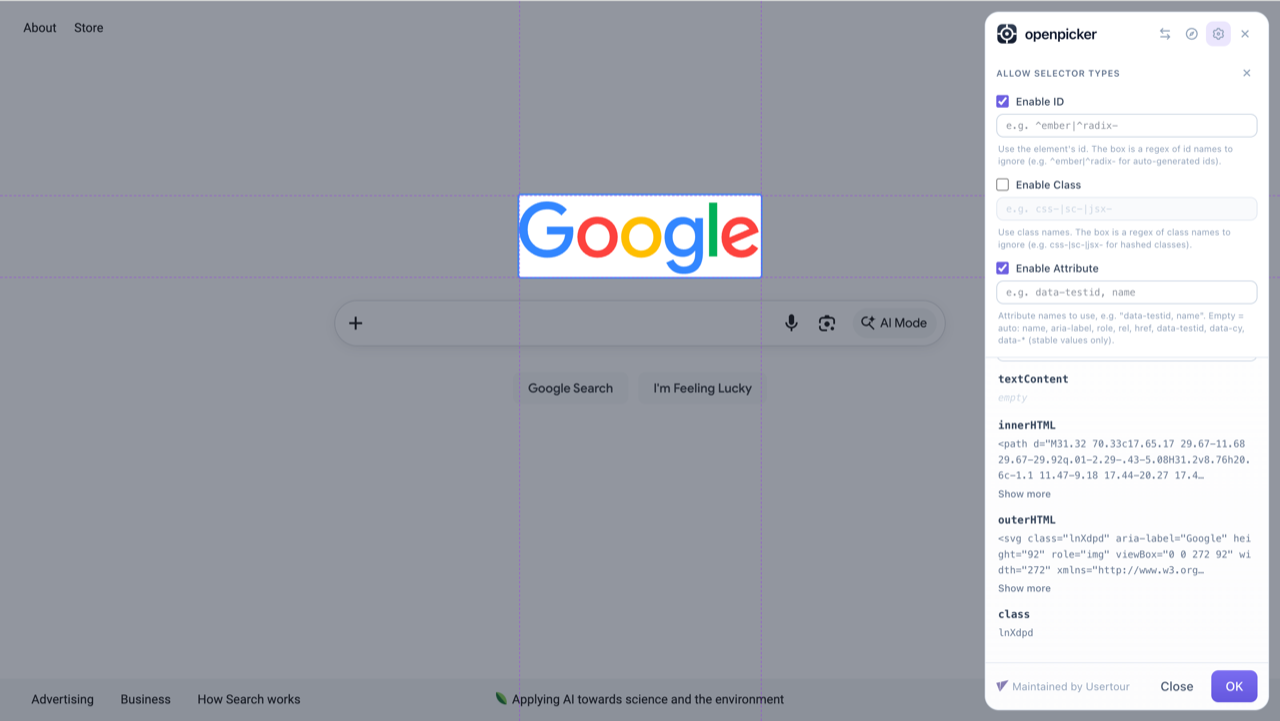
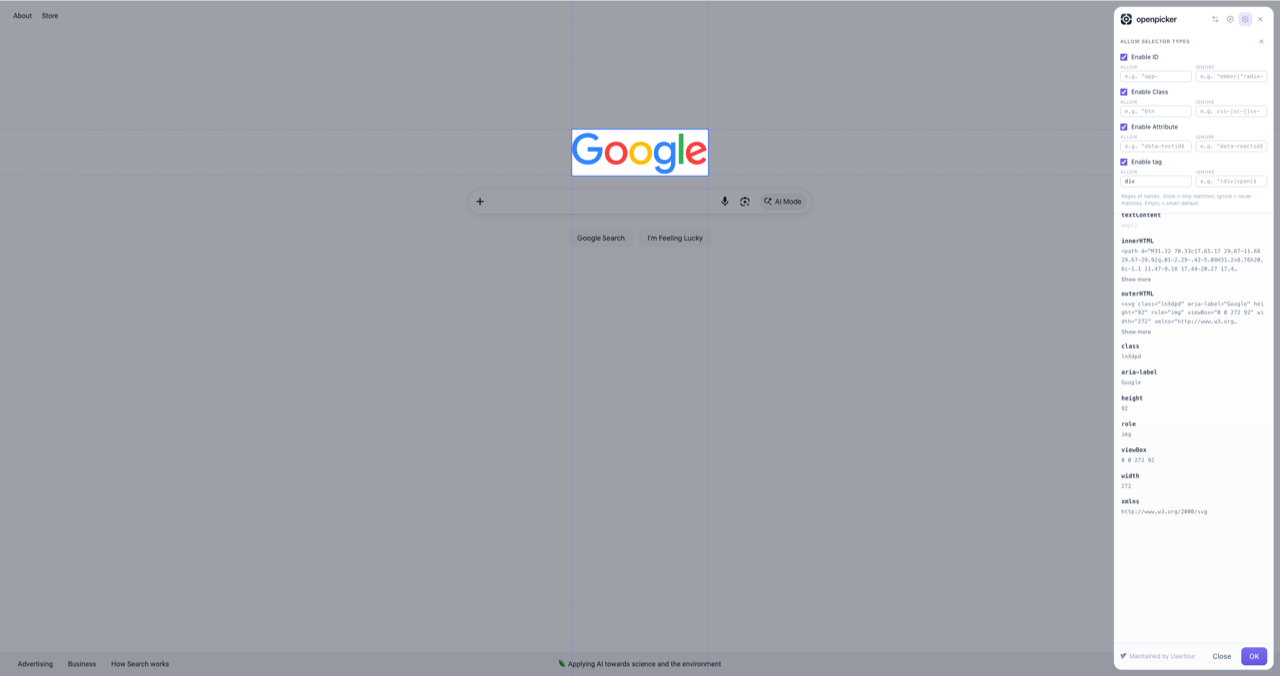
docs: refresh screenshots for the 0.3.0 UI
Replace picker / popup / options / selector-settings captures with the new
0.3.0 interface (renamed "Settings" popup action, four-dimension selector
rules with allow/ignore regex). Add a selector-rules screenshot showing the
options page's global default plus an expanded per-site override, and wire it
into the configuring-selectors guide.

diff --git a/apps/docs/guide/configuring-selectors.md b/apps/docs/guide/configuring-selectors.md
@@ -46,6 +46,8 @@ The options page's **Selector rules** section has a **global default** (applies 
 **per-site overrides** (for specific origins). The sidebar gear edits the current site's rules.
 Everything is stored in the browser, per origin — nothing is sent anywhere.
 
+![The options page's Selector rules: a global default plus per-site overrides](/selector-rules.png)
+
 ## Controlling it from the SDK
 
 An integration can pass selector rules into a pick, and optionally lock the UI so the user can't
